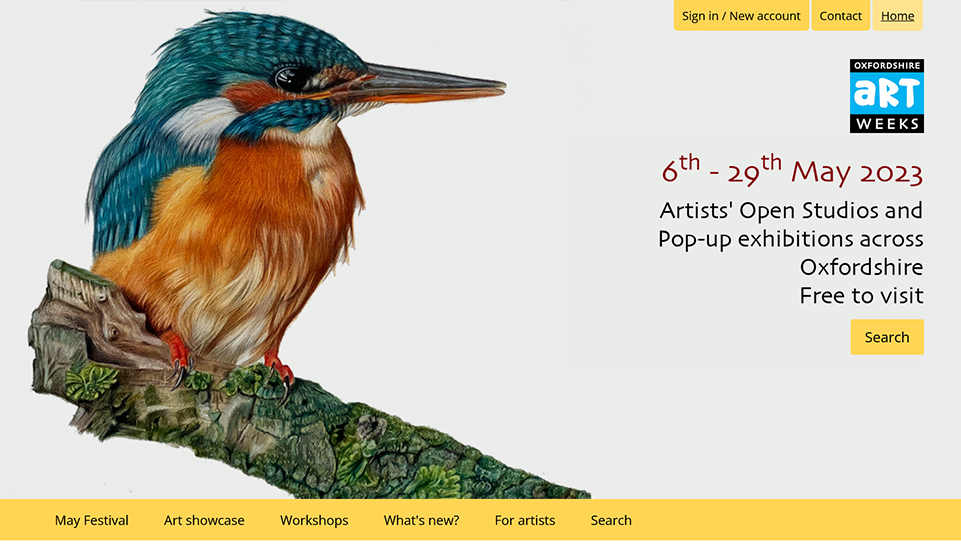
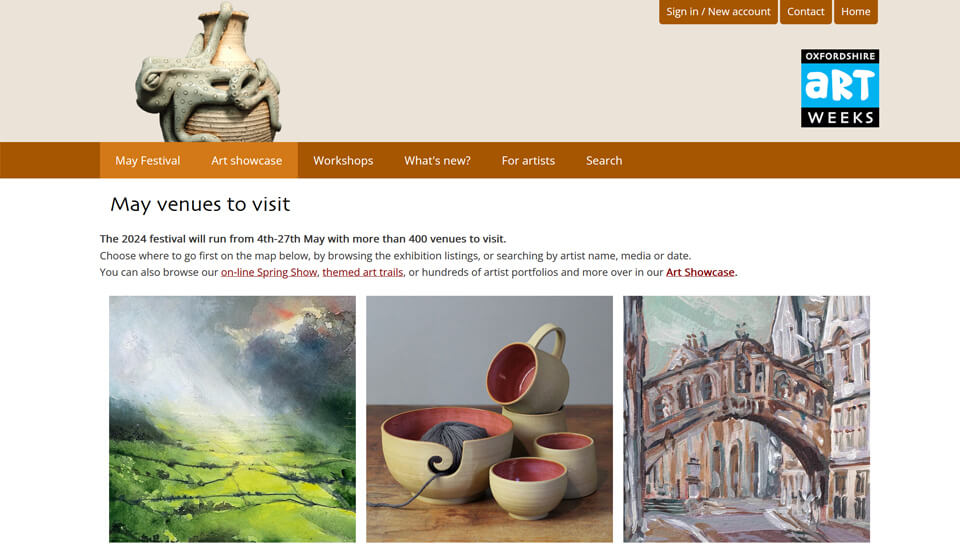
Update for 2024 festivals, change to Roboto typeface, new front page

diff --git a/_sass/_layout-home.scss b/_sass/_layout-home.scss
@@ -8,17 +8,17 @@
         //@include parallax(-.4);
         margin: 0;
         padding: 2em;
-        background-image: url('/assets/images/wild_garlic_small.jpg');
+        background-image: url('/assets/images/thames_mist_small.jpg');
         background-size: cover;
         background-repeat: no-repeat;
         background-position: center;
         transition: 0.2s ease-in-out;
         color: $eyedivision-light;
-        
+
         @include media($medium-screen) {
             margin: 0;
             padding: 2em 2em 4em;
-            background-image: url('/assets/images/wild_garlic_1200.jpg');
+            background-image: url('/assets/images/thames_mist_1200.jpg');
         }
         @include media ($large-screen) {
             padding: 10em 2em;
@@ -31,7 +31,7 @@
         }
     }
     .hero__strapline {
-        
+
         font-size: modular-scale(2);
         @include media($medium-screen) {
             background: rgba(0,0,0,0.35);
@@ -42,7 +42,7 @@
     }
     .clients-front {
         padding: 20px;
-        
+
 
         @include media ($large-screen) {
             margin-top: 2em;

diff --git a/_sass/base/_variables.scss b/_sass/base/_variables.scss
@@ -1,14 +1,14 @@
 // Google Fonts
 @import url(//fonts.googleapis.com/css?family=Open+Sans:300italic,400italic,600italic,700italic,800italic,400,800,700,600,300|Lato:300,400);
 
-$font-family-sans-serif:  'Open Sans', Helvetica, Arial, sans-serif !default;
+@import url('https://fonts.googleapis.com/css2?family=Roboto:ital,wght@0,100;0,300;0,400;0,500;0,700;0,900;1,100;1,300;1,400;1,500;1,700;1,900&display=swap');
+
+$font-family-sans-serif:  'Roboto', Helvetica, Arial, sans-serif !default;
 $font-family-serif: Georgia, "Times New Roman", Times, serif !default;
 $eyedivision-headline-font-family: 'Lato', sans-serif;
 // Typography
 $base-font-family: $font-family-sans-serif;
 $heading-font-family: 'Lato', "Helvetica Neue", "Helvetica", "Arial", sans-serif; // $base-font-family;
-
-
 
 // Font Sizes
 $base-font-size: $em-base; // 16px
@@ -16,7 +16,7 @@ $base-font-size: $em-base; // 16px
 $page-width: 75em;
 
 // Adjust modular scale ratio
-$modular-scale-ratio: $minor-third;
+$modular-scale-ratio: $major-third;
 
 // Line height
 $base-line-height: 1.8;

diff --git a/_sass/_layout-clients.scss b/_sass/_layout-clients.scss
@@ -25,6 +25,14 @@
     text-decoration: none;
     transition: all 0.2s ease-in-out;
   }
+  a, a:hover, a:focus {
+    text-decoration: none;
+    color: $black;
+    &:hover, &:focus {
+      text-decoration: none;
+      color: $red;
+    }
+  }
 }
 
 h3 {
@@ -32,20 +40,6 @@ h3 {
   font-size: modular-scale(1);
 }
 
-a, a:hover, a:focus {
-  text-decoration: none;
-  color: $black;
-  &:hover, &:focus {
-    text-decoration: none;
-    color: $red;
-  }
-}
-.project-date {
-
-}
-.project-description {
-
-}
 
 /*
  * Clients page

diff --git a/_sass/base/_typography.scss b/_sass/base/_typography.scss
@@ -47,14 +47,14 @@ p {
 }
 
 a {
-  color: lighten($action-color,10%);
-  text-decoration: none;
+  color: darken($action-color,10%);
+  text-decoration: underline;
   // transition: color 0.1s linear;
 
   &:active,
   &:focus,
   &:hover {
-    color: $action-color;
+    color: $black;
     text-decoration: underline;
   }
 
@@ -78,6 +78,3 @@ picture {
   max-width: 100%;
 }
 
-code {
-
-}
